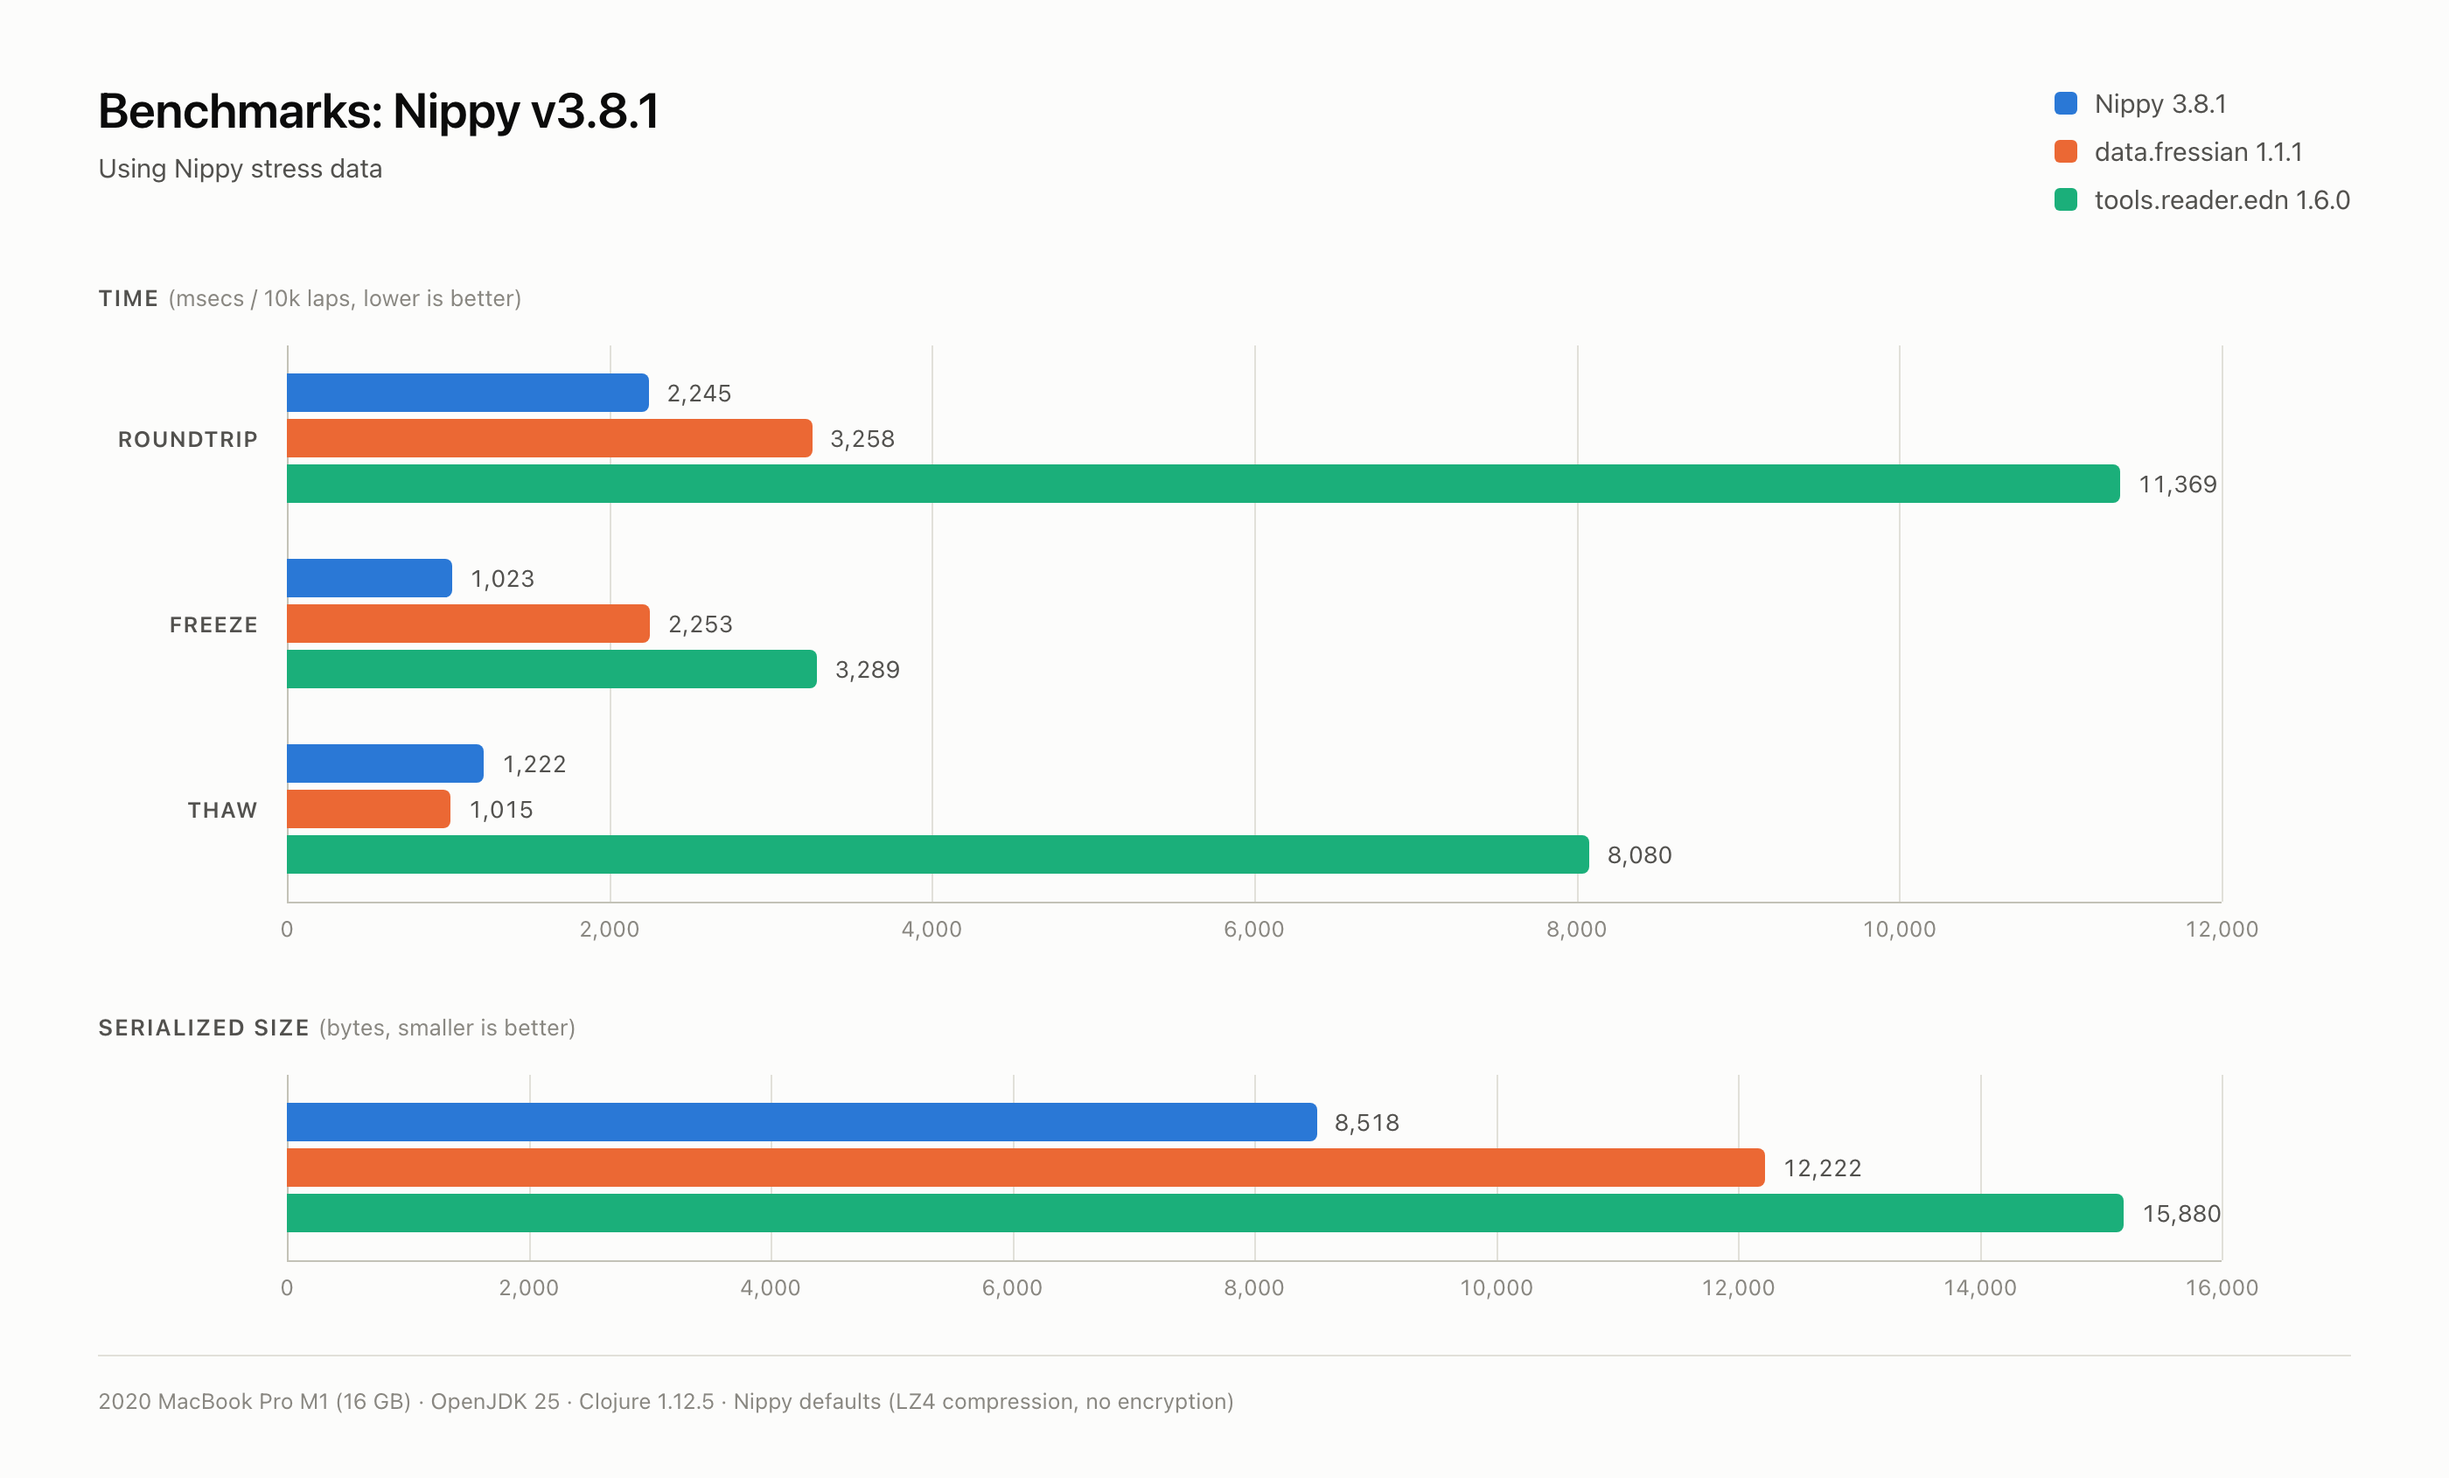
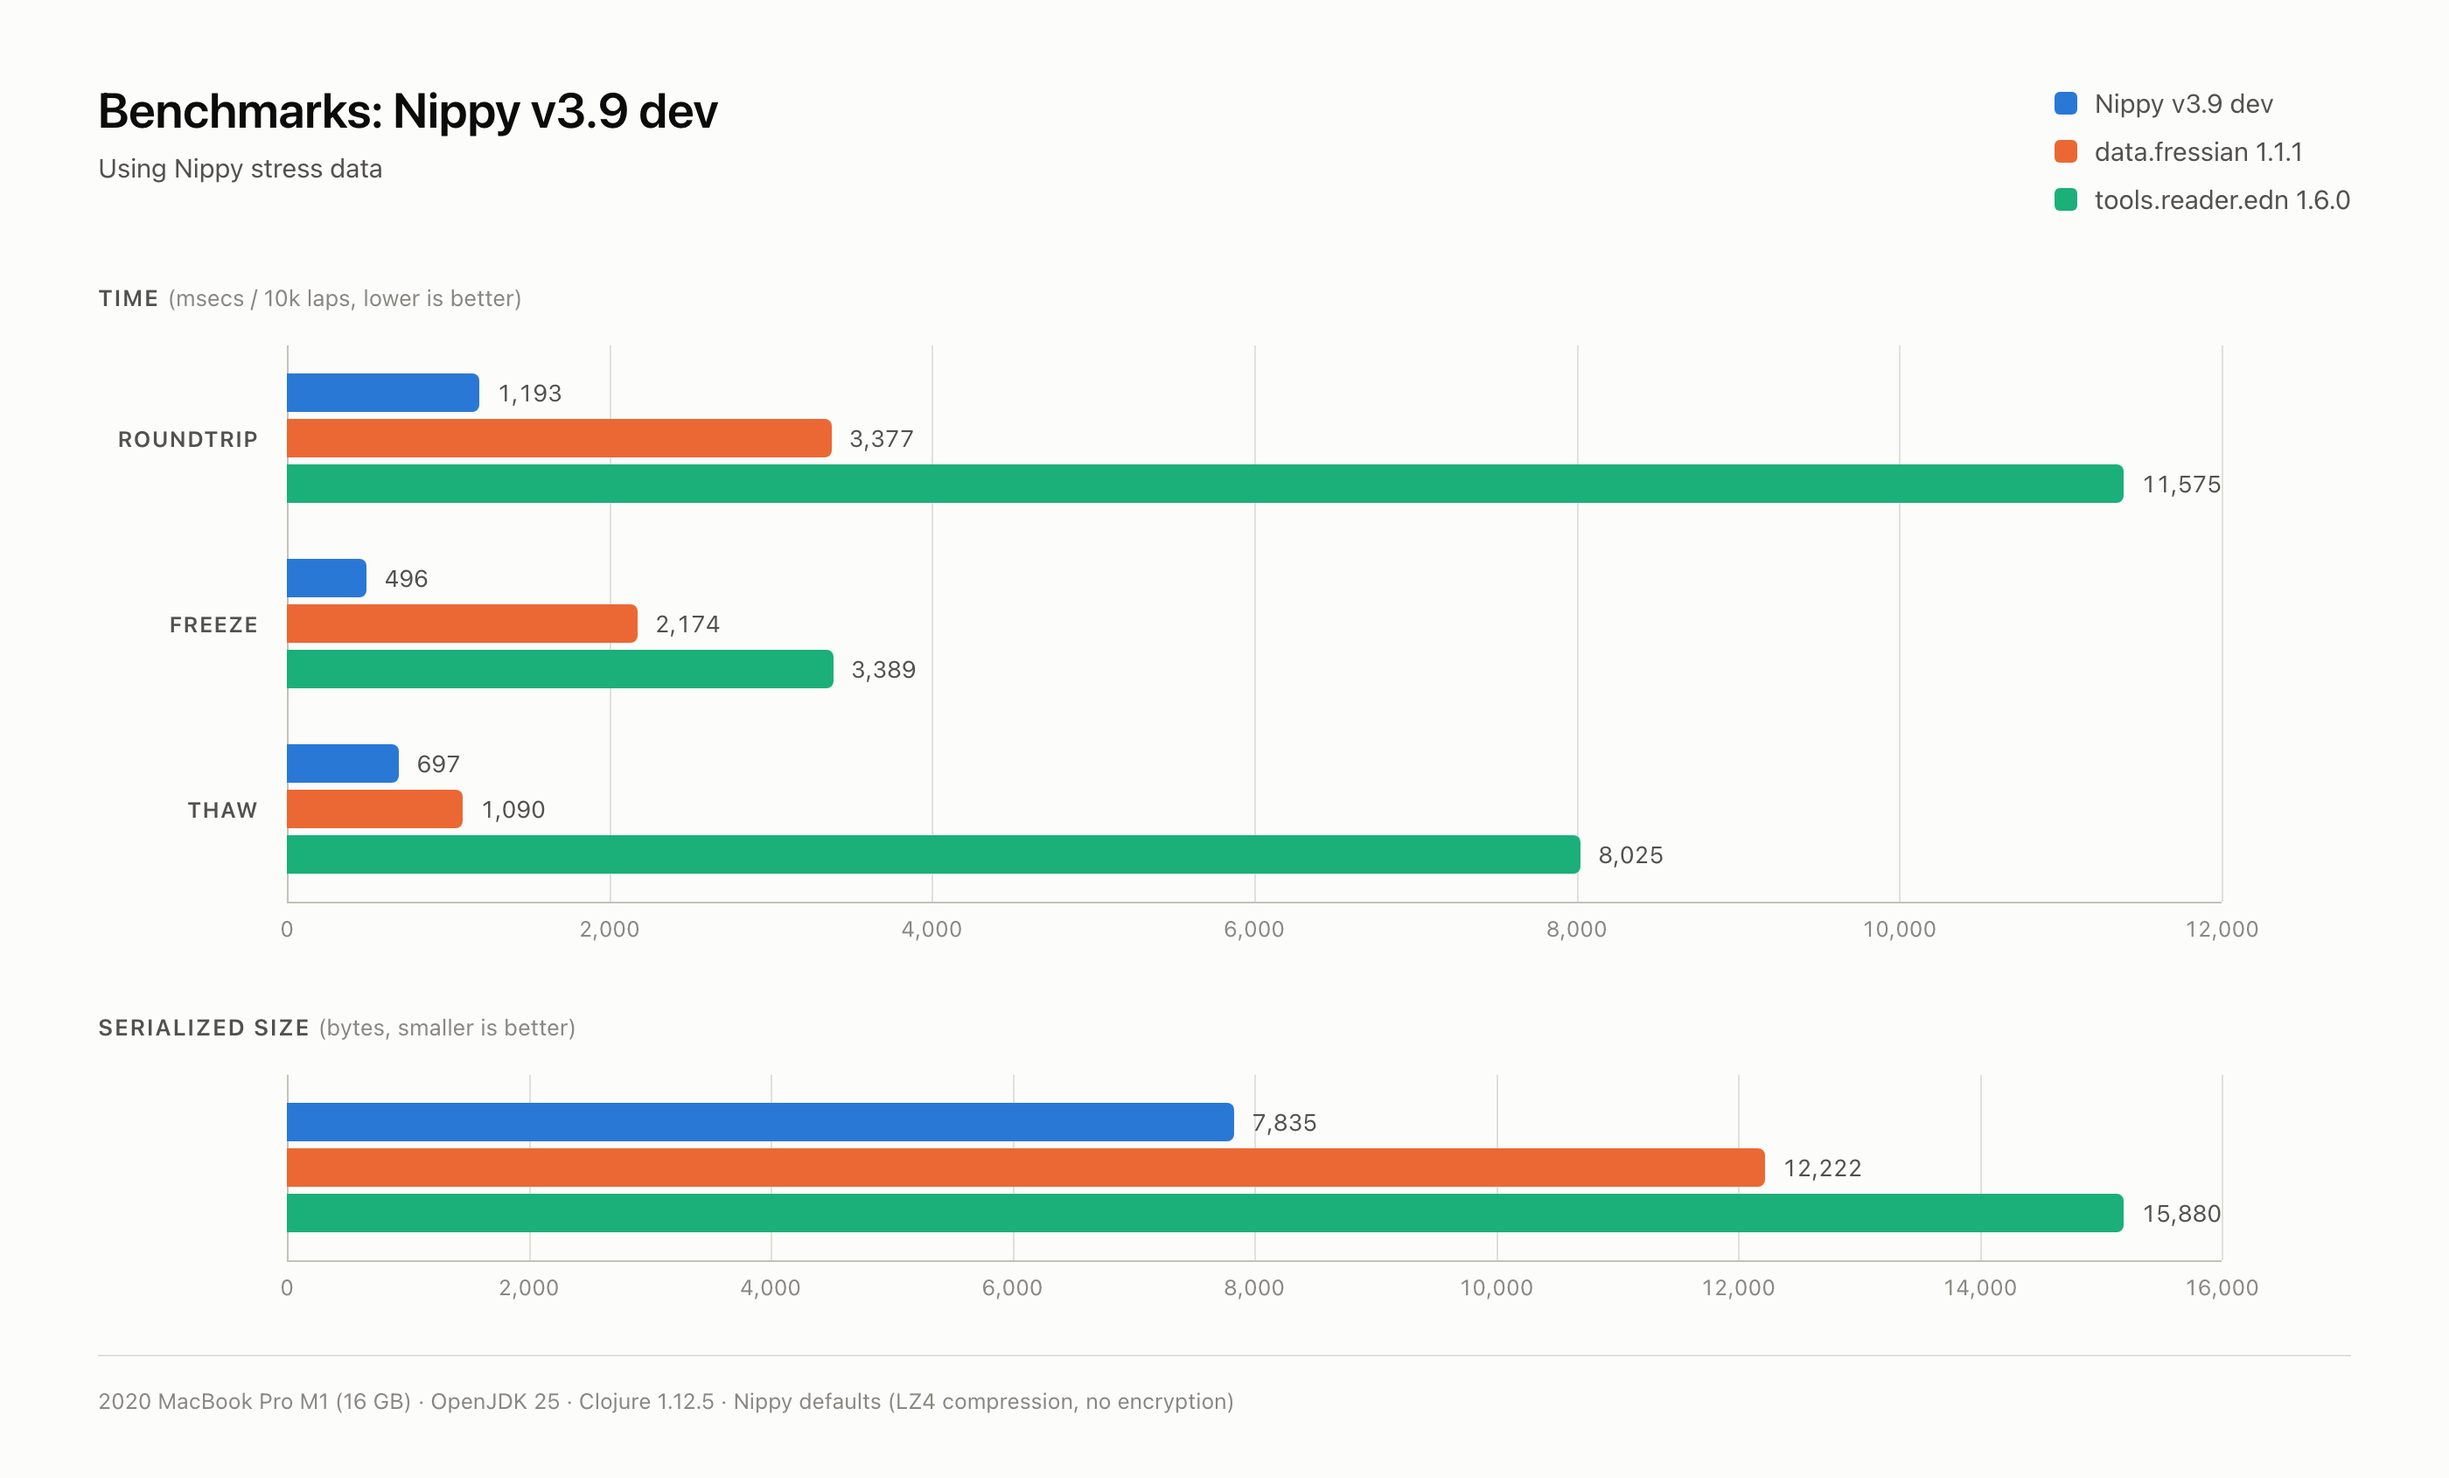
[new] Update benchmark results
Recorded results and README chart were from v3.8.1, so didn't reflect
the perf work on dev.

Changes:
  - Re-run both bench suites against v3.9 dev
  - Regenerate benchmarks.png, relabel as "Nippy v3.9 dev"

diff --git a/doc/benchmarks-chart.html b/doc/benchmarks-chart.html
@@ -66,11 +66,11 @@
 
 <header>
   <div>
-    <h1>Benchmarks: Nippy v3.8.1</h1>
+    <h1>Benchmarks: Nippy v3.9 dev</h1>
     <div class="sub">Using Nippy stress data</div>
   </div>
   <div class="legend">
-    <div><span class="sw" style="background: var(--nippy)"></span>Nippy 3.8.1</div>
+    <div><span class="sw" style="background: var(--nippy)"></span>Nippy v3.9 dev</div>
     <div><span class="sw" style="background: var(--fressian)"></span>data.fressian 1.1.1</div>
     <div><span class="sw" style="background: var(--reader)"></span>tools.reader.edn 1.6.0</div>
   </div>
@@ -93,23 +93,23 @@
 
     <div class="group">
       <div class="glabel">Roundtrip</div>
-      <div class="row"><div class="bar" style="width: 18.708%; background: var(--nippy)"></div><div class="val">2,245</div></div>
-      <div class="row"><div class="bar" style="width: 27.150%; background: var(--fressian)"></div><div class="val">3,258</div></div>
-      <div class="row"><div class="bar" style="width: 94.742%; background: var(--reader)"></div><div class="val">11,369</div></div>
+      <div class="row"><div class="bar" style="width: 9.942%; background: var(--nippy)"></div><div class="val">1,193</div></div>
+      <div class="row"><div class="bar" style="width: 28.142%; background: var(--fressian)"></div><div class="val">3,377</div></div>
+      <div class="row"><div class="bar" style="width: 96.458%; background: var(--reader)"></div><div class="val">11,575</div></div>
     </div>
 
     <div class="group">
       <div class="glabel">Freeze</div>
-      <div class="row"><div class="bar" style="width: 8.525%; background: var(--nippy)"></div><div class="val">1,023</div></div>
-      <div class="row"><div class="bar" style="width: 18.775%; background: var(--fressian)"></div><div class="val">2,253</div></div>
-      <div class="row"><div class="bar" style="width: 27.408%; background: var(--reader)"></div><div class="val">3,289</div></div>
+      <div class="row"><div class="bar" style="width: 4.133%; background: var(--nippy)"></div><div class="val">496</div></div>
+      <div class="row"><div class="bar" style="width: 18.117%; background: var(--fressian)"></div><div class="val">2,174</div></div>
+      <div class="row"><div class="bar" style="width: 28.242%; background: var(--reader)"></div><div class="val">3,389</div></div>
     </div>
 
     <div class="group">
       <div class="glabel">Thaw</div>
-      <div class="row"><div class="bar" style="width: 10.183%; background: var(--nippy)"></div><div class="val">1,222</div></div>
-      <div class="row"><div class="bar" style="width: 8.458%; background: var(--fressian)"></div><div class="val">1,015</div></div>
-      <div class="row"><div class="bar" style="width: 67.333%; background: var(--reader)"></div><div class="val">8,080</div></div>
+      <div class="row"><div class="bar" style="width: 5.808%; background: var(--nippy)"></div><div class="val">697</div></div>
+      <div class="row"><div class="bar" style="width: 9.083%; background: var(--fressian)"></div><div class="val">1,090</div></div>
+      <div class="row"><div class="bar" style="width: 66.875%; background: var(--reader)"></div><div class="val">8,025</div></div>
     </div>
   </div>
 
@@ -142,7 +142,7 @@
     </div>
 
     <div class="group">
-      <div class="row"><div class="bar" style="width: 53.238%; background: var(--nippy)"></div><div class="val">8,518</div></div>
+      <div class="row"><div class="bar" style="width: 48.969%; background: var(--nippy)"></div><div class="val">7,835</div></div>
       <div class="row"><div class="bar" style="width: 76.388%; background: var(--fressian)"></div><div class="val">12,222</div></div>
       <div class="row"><div class="bar" style="width: 99.250%; background: var(--reader)"></div><div class="val">15,880</div></div>
     </div>
